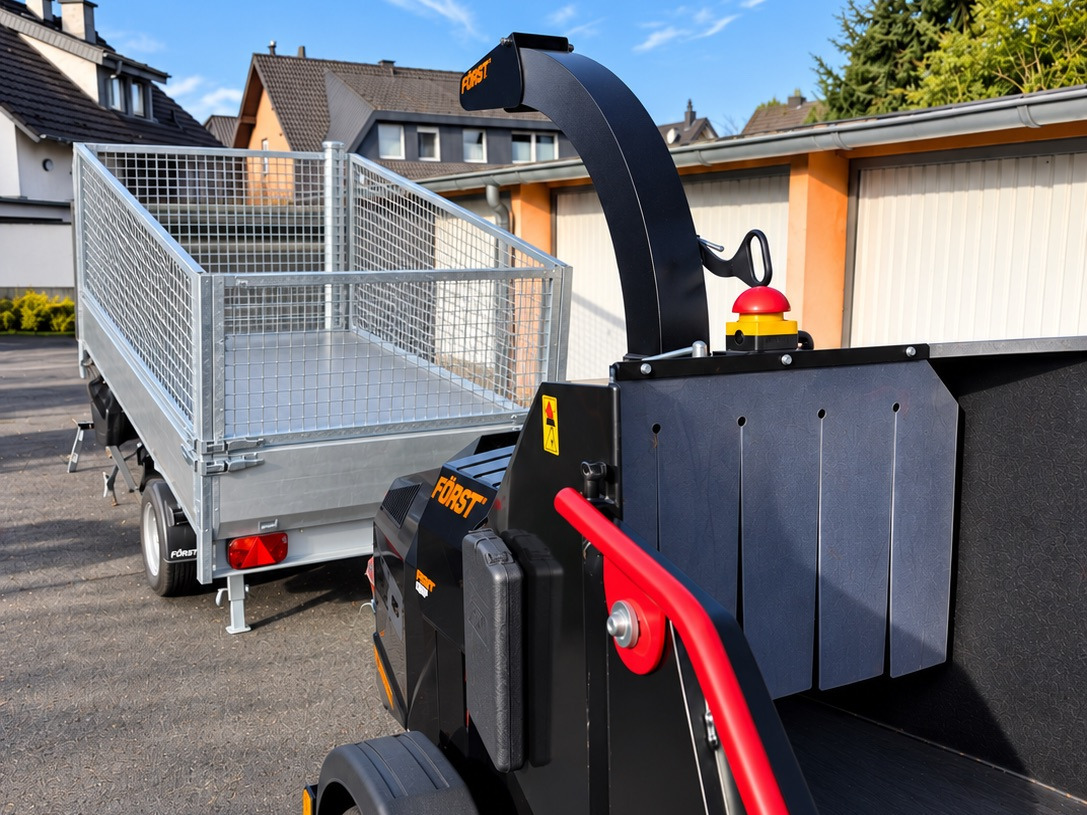
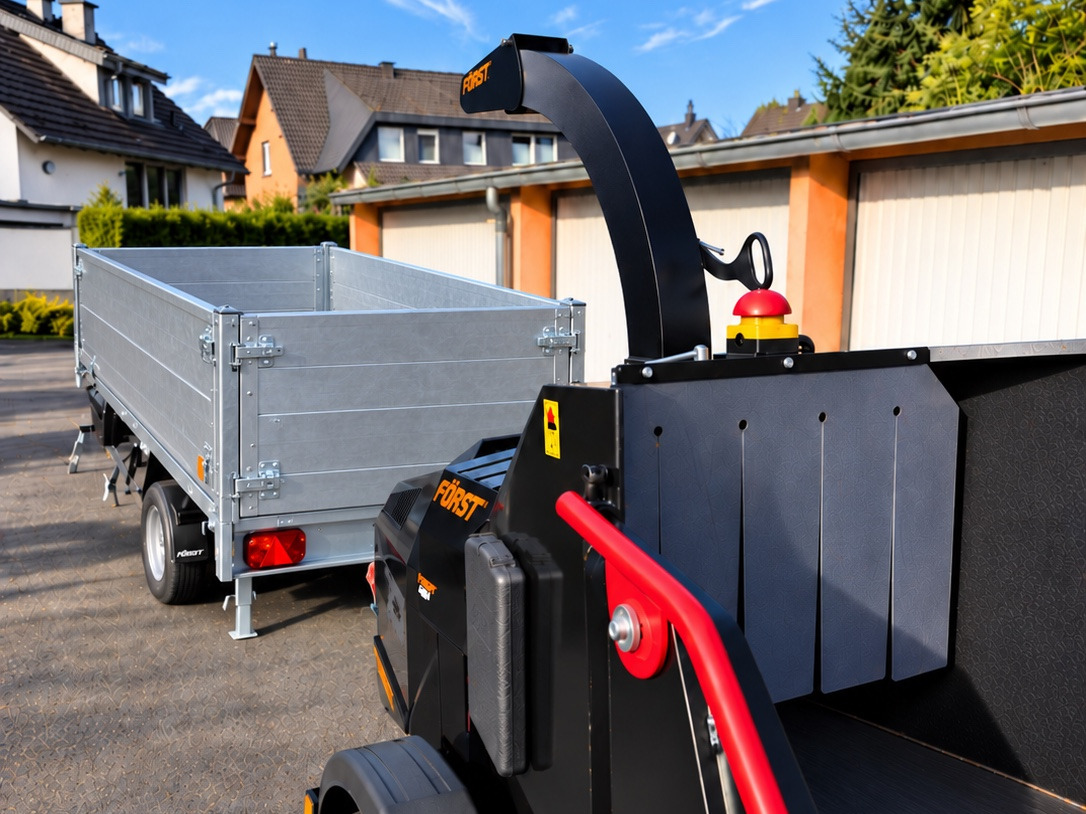
Häckselarbeiten: Bild mit Kastenanhänger statt Gitteraufsatz
Claude-Session: https://claude.ai/code/session_01XYfuFgBnXiuCWwsguYdwE2

diff --git a/src/config/fotos.ts b/src/config/fotos.ts
@@ -44,7 +44,7 @@ export const fotos: Record<string, { zeigt: string; alt: string }> = {
   },
   'leistung-haeckselarbeiten': {
     zeigt: 'Häckselarbeiten',
-    alt: 'Symbolbild, mit KI erstellt: Häcksler mit Einzugstrichter und Auswurf, dahinter ein Anhänger mit Gitteraufsatz',
+    alt: 'Symbolbild, mit KI erstellt: Häcksler mit Einzugstrichter und Auswurf, dahinter ein Kastenanhänger',
   },
   'leistung-landschaftspflege-heckenschnitt': { zeigt: 'Landschaftspflege und Heckenschnitt', alt: '' },
   'leistung-seilklettertechnik': {
